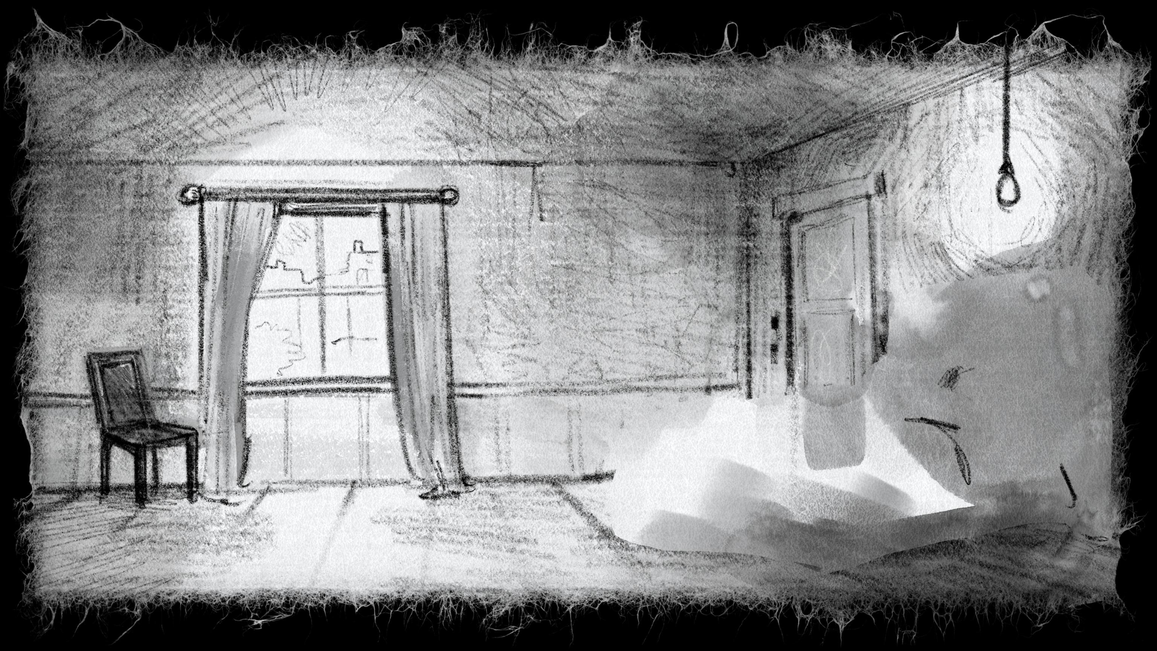
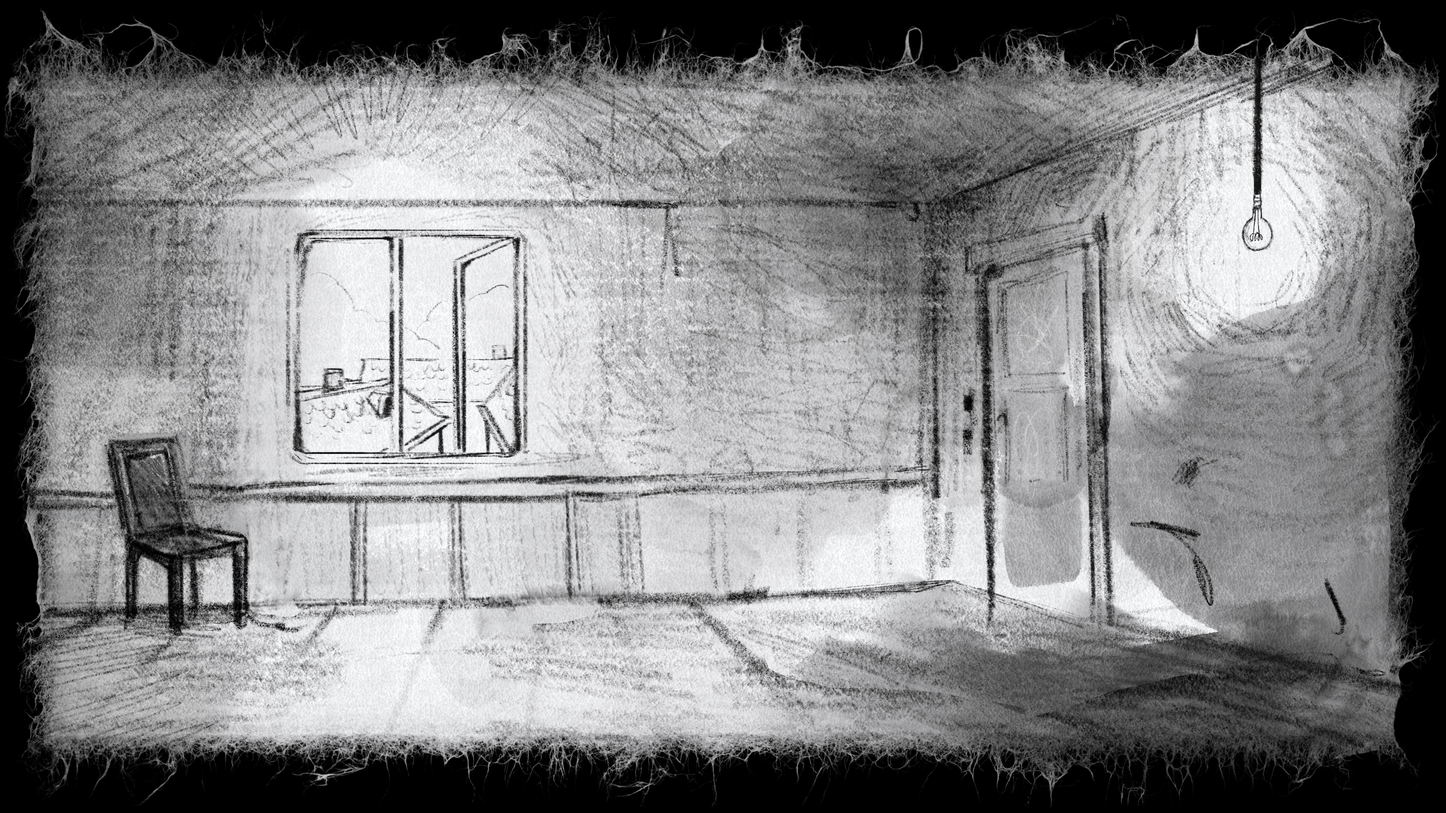
Hotel room barricading

diff --git a/assets/game/objects/Objects.tsx b/assets/game/objects/Objects.tsx
@@ -1,5 +1,5 @@
 <?xml version="1.0" encoding="UTF-8"?>
-<tileset version="1.9" tiledversion="1.9.2" name="Objects" tilewidth="4999" tileheight="1879" tilecount="41" columns="0">
+<tileset version="1.9" tiledversion="1.9.2" name="Objects" tilewidth="4999" tileheight="1879" tilecount="45" columns="0">
  <grid orientation="orthogonal" width="1" height="1"/>
  <tile id="0">
   <image width="201" height="1183" source="city-lamp.png"/>
@@ -123,5 +123,17 @@
  </tile>
  <tile id="60">
   <image width="1327" height="637" source="bush-right.png"/>
+ </tile>
+ <tile id="61">
+  <image width="1043" height="1181" source="curtains.png"/>
+ </tile>
+ <tile id="62">
+  <image width="555" height="241" source="drawer.png"/>
+ </tile>
+ <tile id="63">
+  <image width="705" height="571" source="dresser.png"/>
+ </tile>
+ <tile id="64">
+  <image width="755" height="563" source="dresser-broken.png"/>
  </tile>
 </tileset>

diff --git a/archetype/poi.go b/archetype/poi.go
@@ -208,9 +208,9 @@ func HorizontalCenterPosition(entry *donburi.Entry) float64 {
 	return pos.X + bounds.Width/2
 }
 
-func SelectPOI(entry *donburi.Entry) {
+func SelectPOI(entry *donburi.Entry) bool {
 	if !CanInteractWithPOI(entry) {
-		return
+		return false
 	}
 
 	poi := component.POI.Get(entry)
@@ -225,6 +225,8 @@ func SelectPOI(entry *donburi.Entry) {
 	} else if poi.POI.Level != nil {
 		ChangeLevel(entry.World, *poi.POI.Level)
 	}
+
+	return true
 }
 
 func ActivatePOI(entry *donburi.Entry) {

diff --git a/system/controls.go b/system/controls.go
@@ -136,8 +136,9 @@ func (c *Controls) Update(w donburi.World) {
 				if characterFound {
 					stopCharacter(character)
 				}
-				archetype.SelectPOI(entry)
-				return
+				if archetype.SelectPOI(entry) {
+					return
+				}
 			}
 		}
 	}

diff --git a/domain/story.go b/domain/story.go
@@ -487,7 +487,7 @@ func (l *Link) AllVisited() bool {
 		return false
 	}
 
-	if l.IsExit() {
+	if l.IsExit() || l.Level != nil {
 		return false
 	}
 
